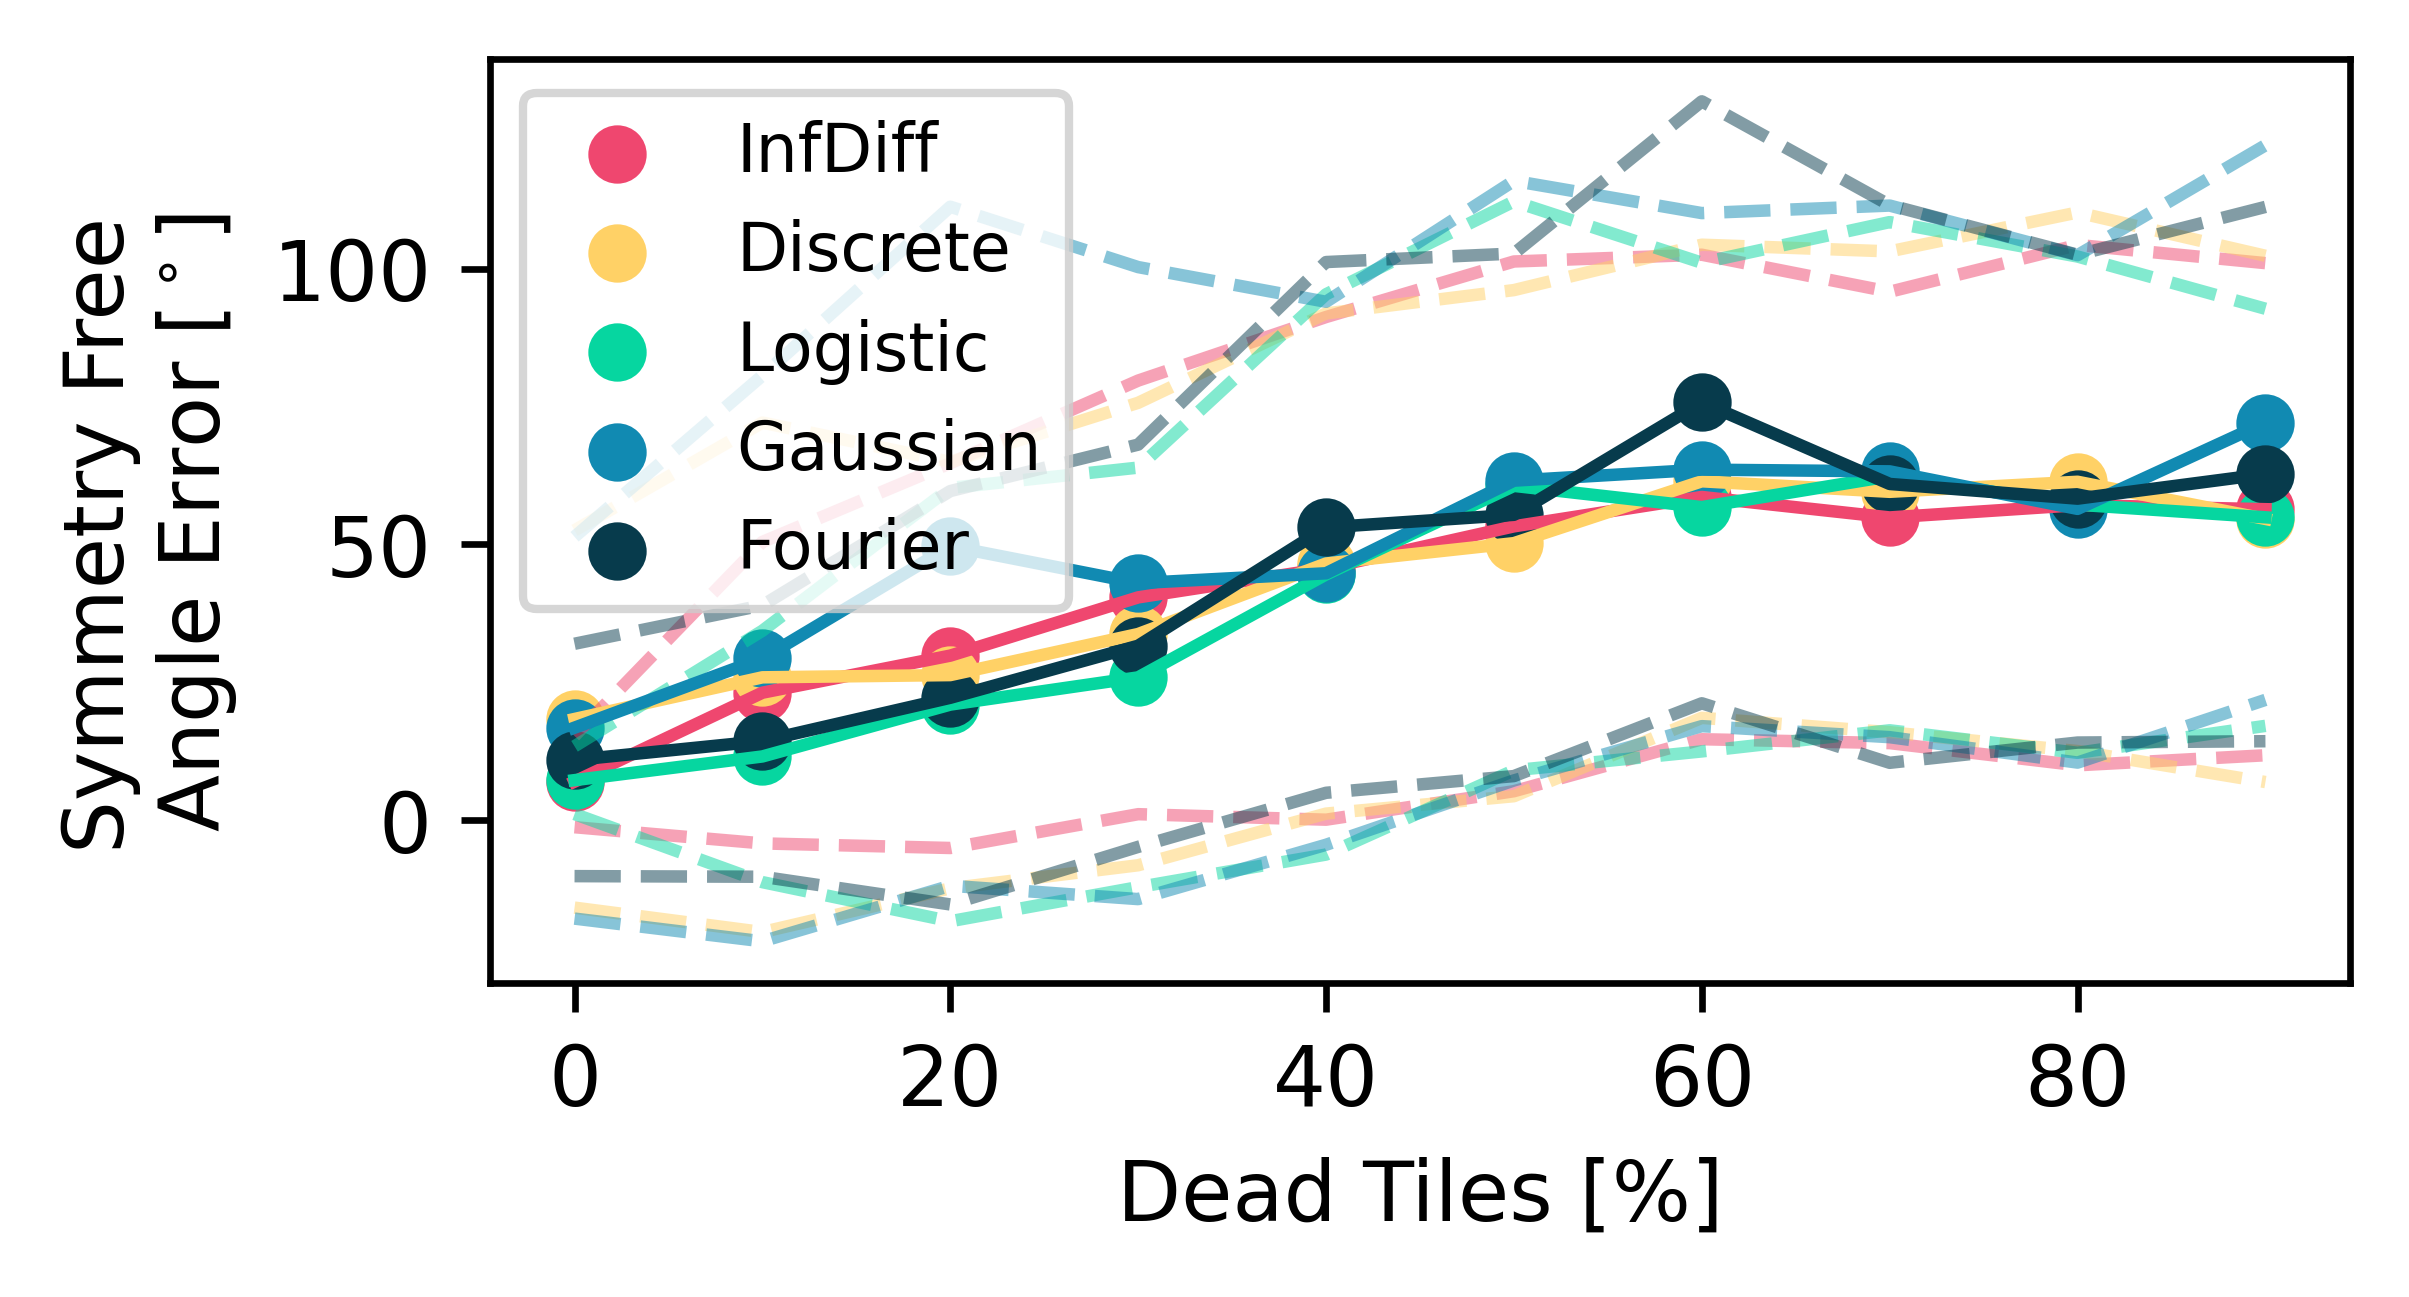
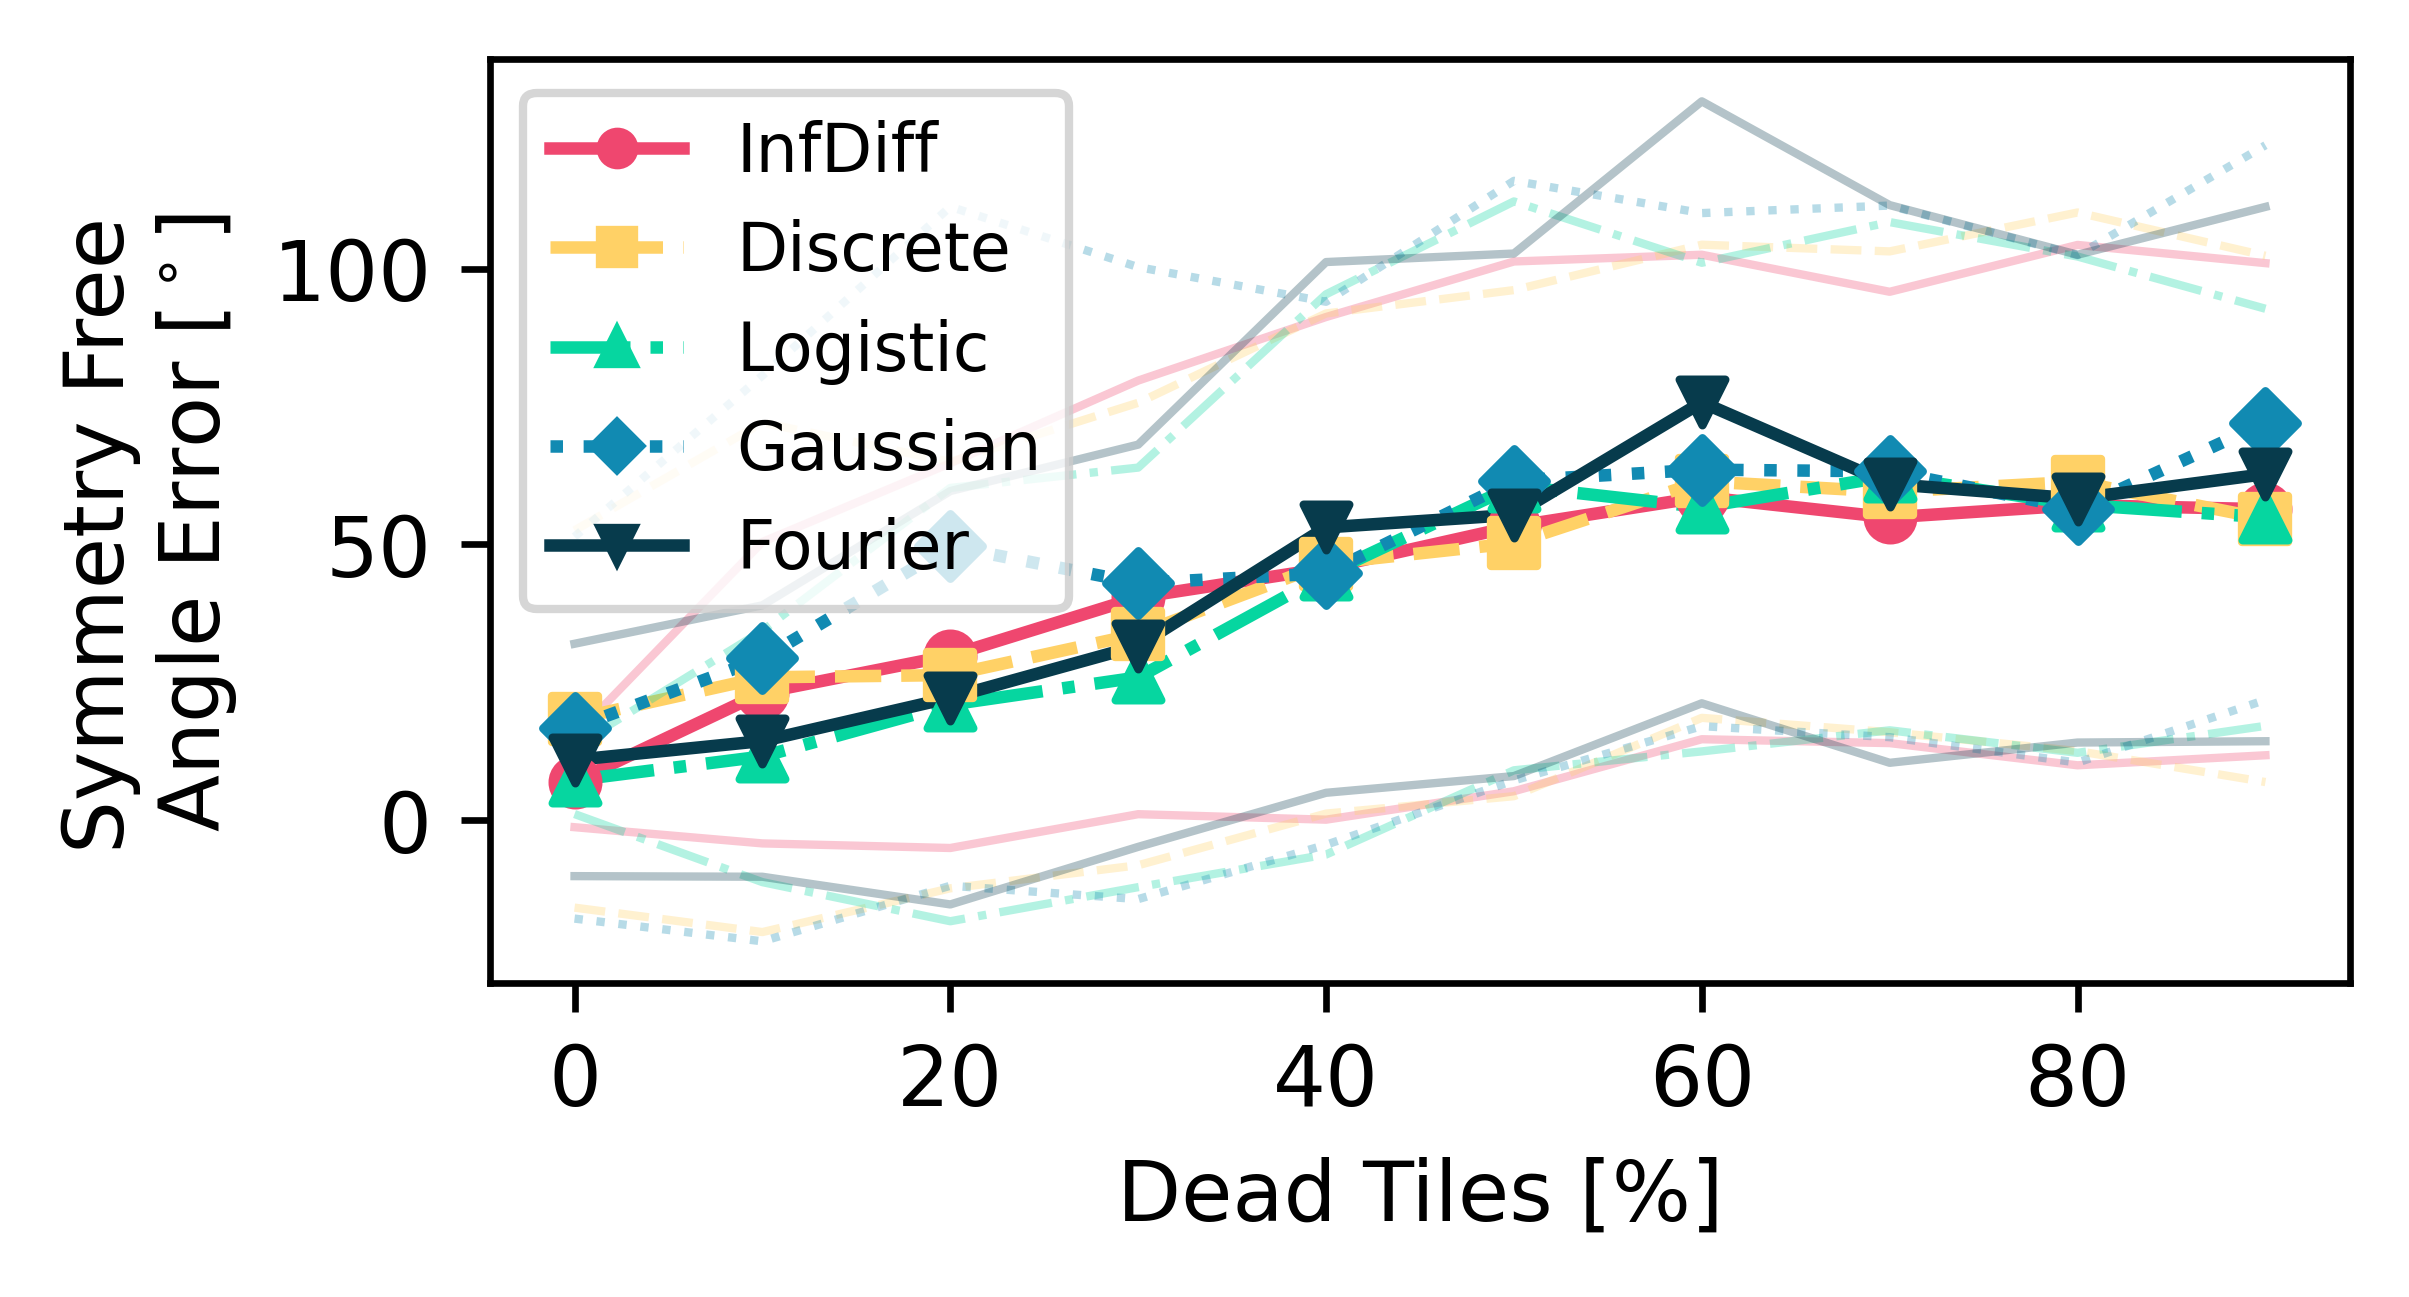
figures improvement

diff --git a/Media/Exp_FaultTolerance_Visuals.py b/Media/Exp_FaultTolerance_Visuals.py
@@ -53,7 +53,12 @@ def resultant_error():
 
     
     def _plot_error(results, metric, ylabel, filename):
-        pallette = _colors.create_palette(len(results_by_dead_tile))  
+        pallette = _colors.create_palette(len(results_by_dead_tile))
+        
+        # Define unique markers and line styles for each behavior
+        markers = ['o', 's', '^', 'D', 'v']  # circle, square, triangle up, diamond, triangle down
+        line_styles = ['-', '--', '-.', ':', '-']  # solid, dashed, dash-dot, dotted, solid
+        
         plt.subplots(figsize=(4, 2))
         for i, behavior in enumerate(results):
             pos_error = results[behavior][metric]
@@ -62,16 +67,24 @@ def resultant_error():
             X = np.arange(len(pos_error_means))
             X = X * 10
 
-            plt.scatter(X, pos_error_means, label=_correct_behavior_name(behavior), color=pallette[i])
-            plt.plot(X, pos_error_means, color=pallette[i])
+            # Use unique marker and line style for each behavior
+            marker = markers[i % len(markers)]
+            line_style = line_styles[i % len(line_styles)]
+
+            # Plot the line first (for legend)
+            plt.plot(X, pos_error_means, color=pallette[i], linestyle=line_style, linewidth=1.5,
+                    marker=marker, markersize=4, label=_correct_behavior_name(behavior))
+            
+            # Then plot the scatter points separately (without label to avoid duplicate legend entries)
+            plt.scatter(X, pos_error_means, color=pallette[i], marker=marker, s=30, zorder=5)
 
             # Calculate upper and lower bounds for the standard deviation
             upper_bound = pos_error_means + pos_error_std
             lower_bound = pos_error_means - pos_error_std
 
-            # Plot the upper and lower bounds as dashed lines
-            plt.plot(X, upper_bound, linestyle='--', color=pallette[i], alpha=0.5)
-            plt.plot(X, lower_bound, linestyle='--', color=pallette[i], alpha=0.5)    
+            # Plot the upper and lower bounds with the same line style but more transparent
+            plt.plot(X, upper_bound, linestyle=line_style, color=pallette[i], alpha=0.3, linewidth=1)
+            plt.plot(X, lower_bound, linestyle=line_style, color=pallette[i], alpha=0.3, linewidth=1)    
         
         plt.legend(fontsize = 8)
         plt.xlabel('Dead Tiles [%]')
